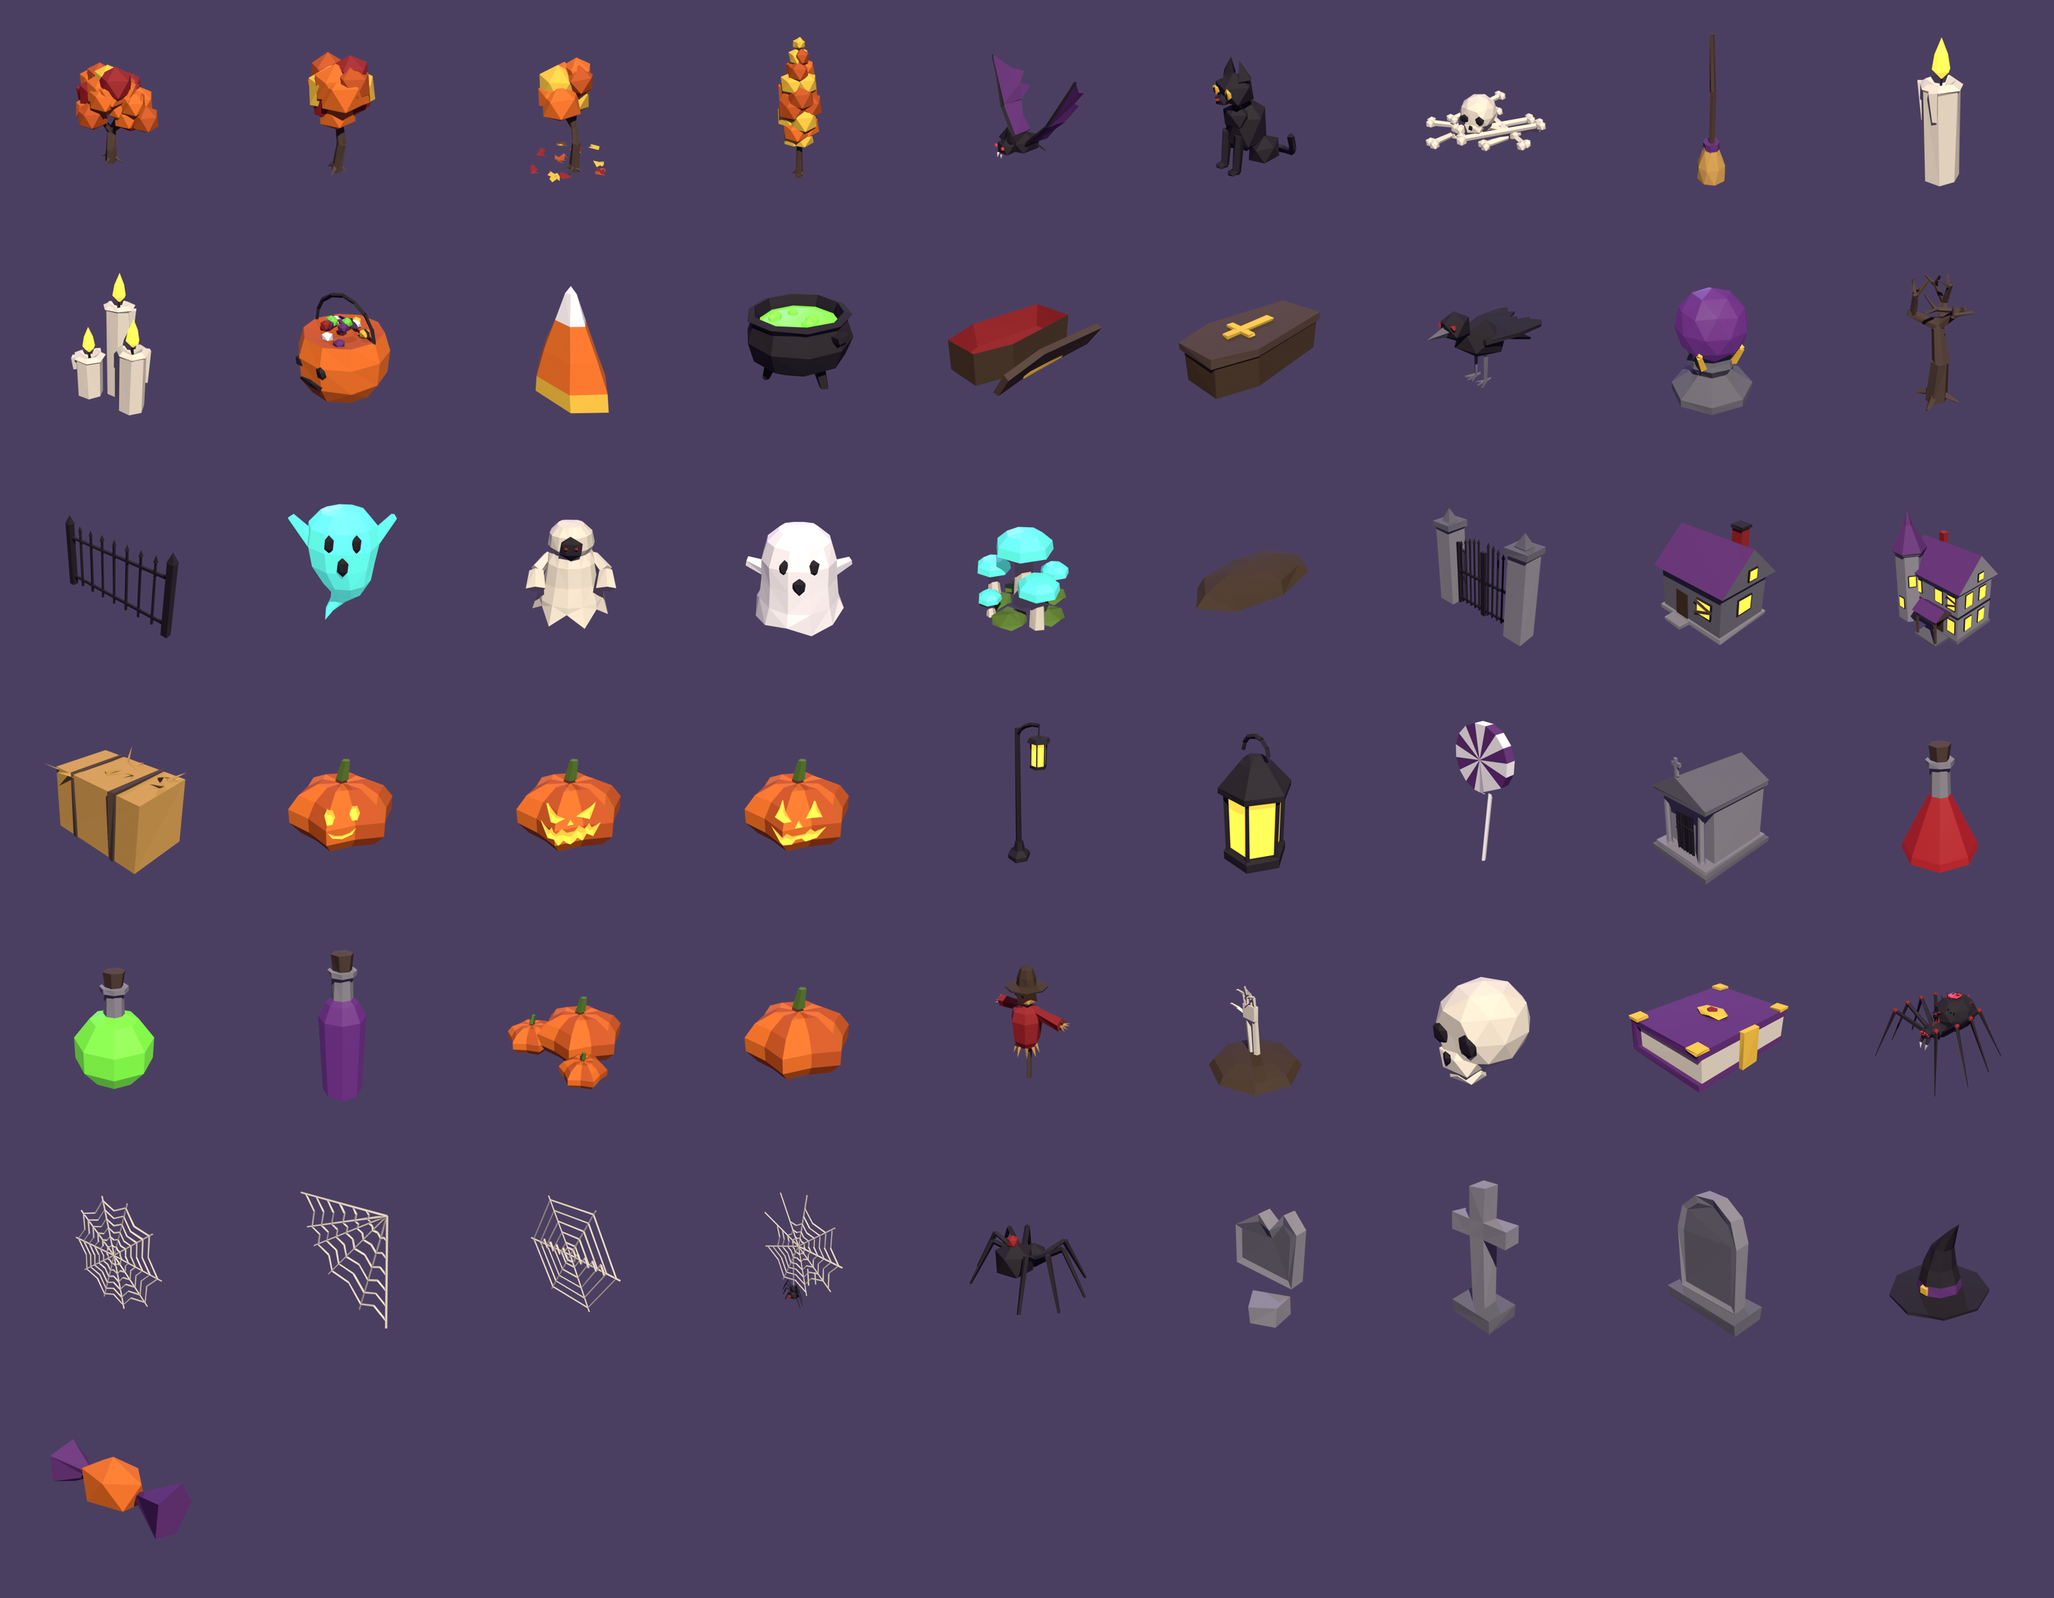
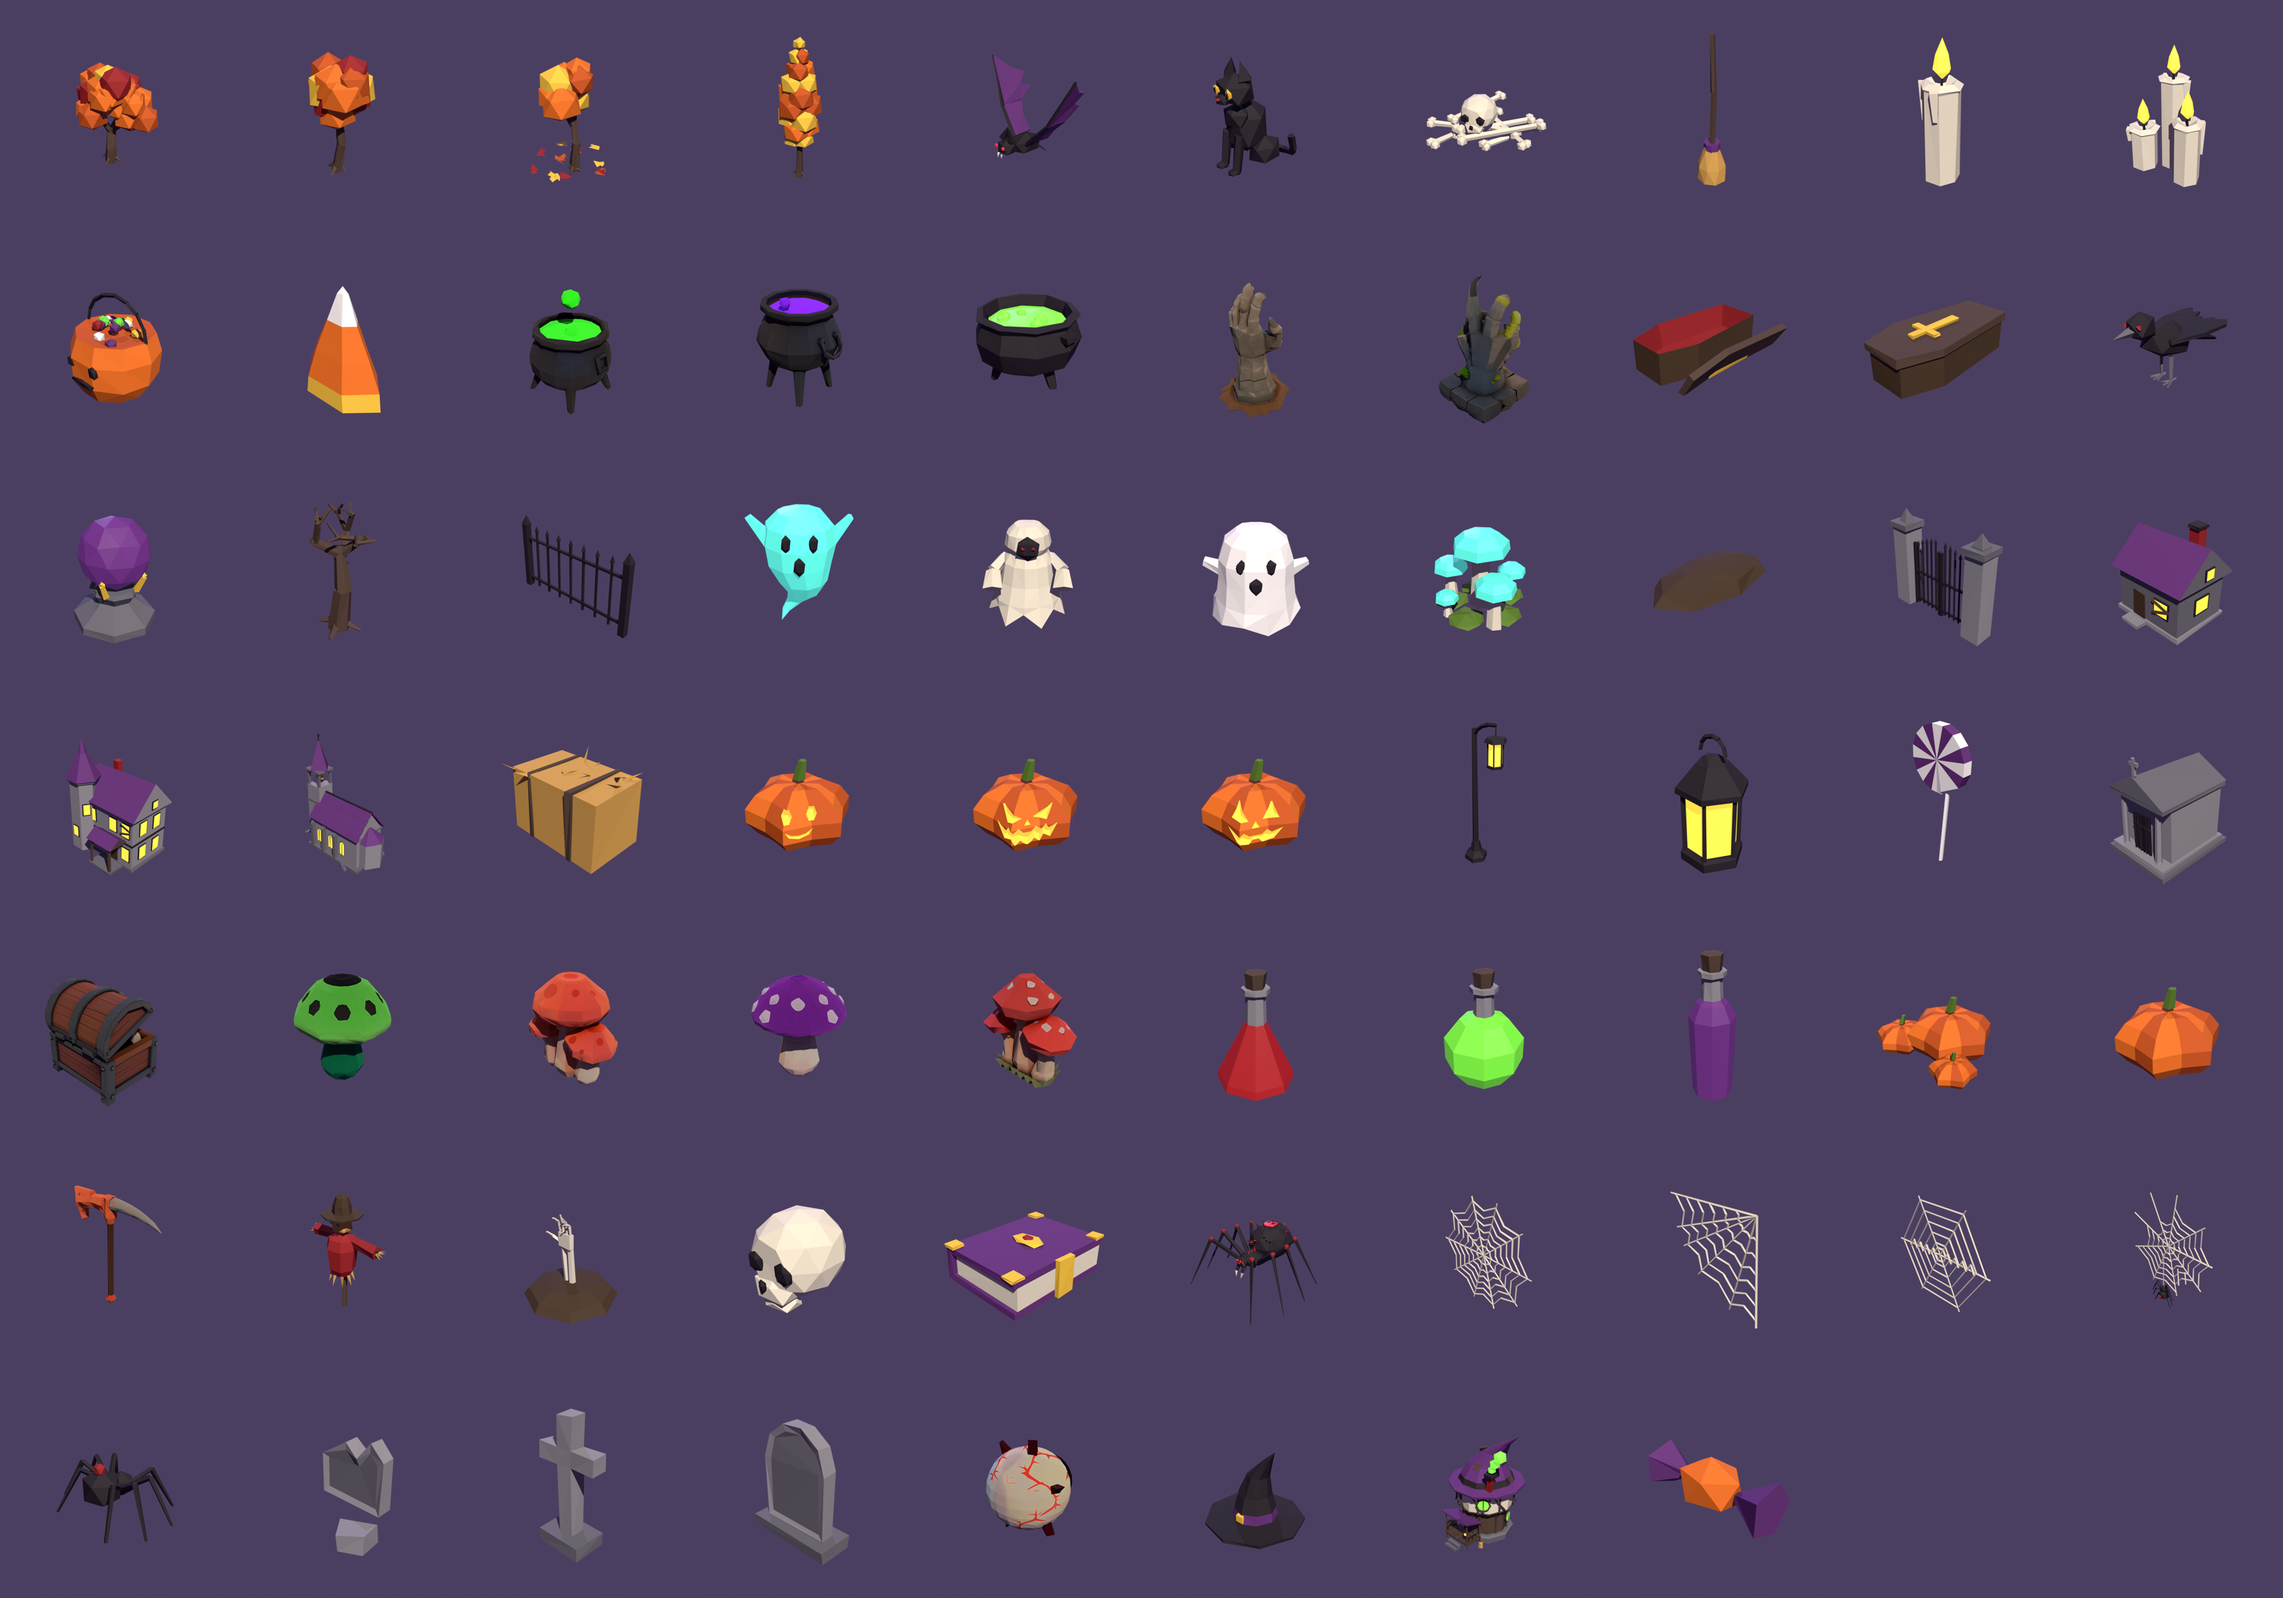
Add Haunted Chapel and Witch Hut

diff --git a/README.md b/README.md
@@ -1,12 +1,12 @@
 # Low Poly Halloween Pack for Roblox
 
-A 66-model Halloween asset pack for Roblox by **sumiii61**.
+A 68-model Halloween asset pack for Roblox by **sumiii61**.
 
 ![All models](media/overview.png)
 
 ## Highlights
 
-- **55 faceted low-poly models.** They share one 256x256 palette texture, so a whole scene uses a single texture.
+- **57 faceted low-poly models,** including a detailed Haunted Chapel and Witch Hut. They share one 256x256 palette texture, so a whole scene uses a single texture.
 - **11-model bonus set** with its own textures:
   - a Watching Eye that turns to stare at the nearest player
   - claw-hand statues, a mimic chest, a reaper scythe, cauldrons and mushrooms
@@ -29,6 +29,7 @@ A 66-model Halloween asset pack for Roblox by **sumiii61**.
 | | | | |
 |---|---|---|---|
 | ![](media/models/HauntedHouse_Manor_preview.png) | ![](media/models/JackOLantern_Scary_preview.png) | ![](media/models/Ghost_Wisp_preview.png) | ![](media/models/Cauldron_preview.png) |
+| ![](media/models/Haunted_Chapel_preview.png) | ![](media/models/Witch_Hut_preview.png) | | |
 | ![](media/models/AutumnTree_Big_preview.png) | ![](media/models/Mausoleum_preview.png) | ![](media/models/WatchingEye_preview.png) | ![](media/models/ClawHand_Statue_Witch_preview.png) |
 
 ## Get the pack
